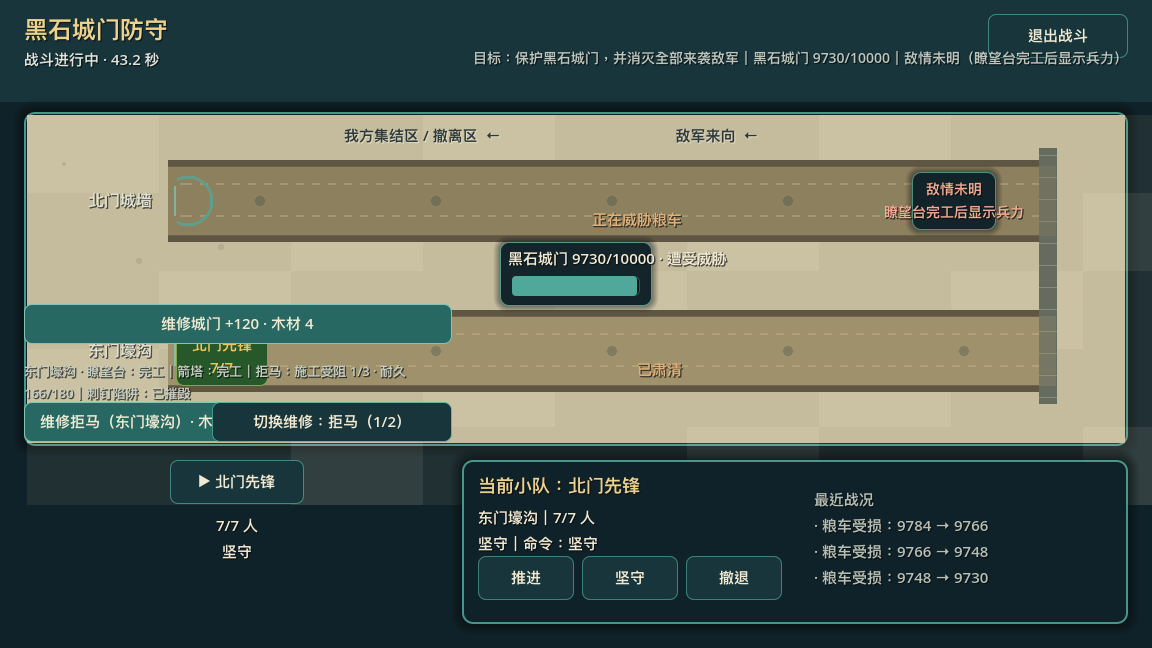
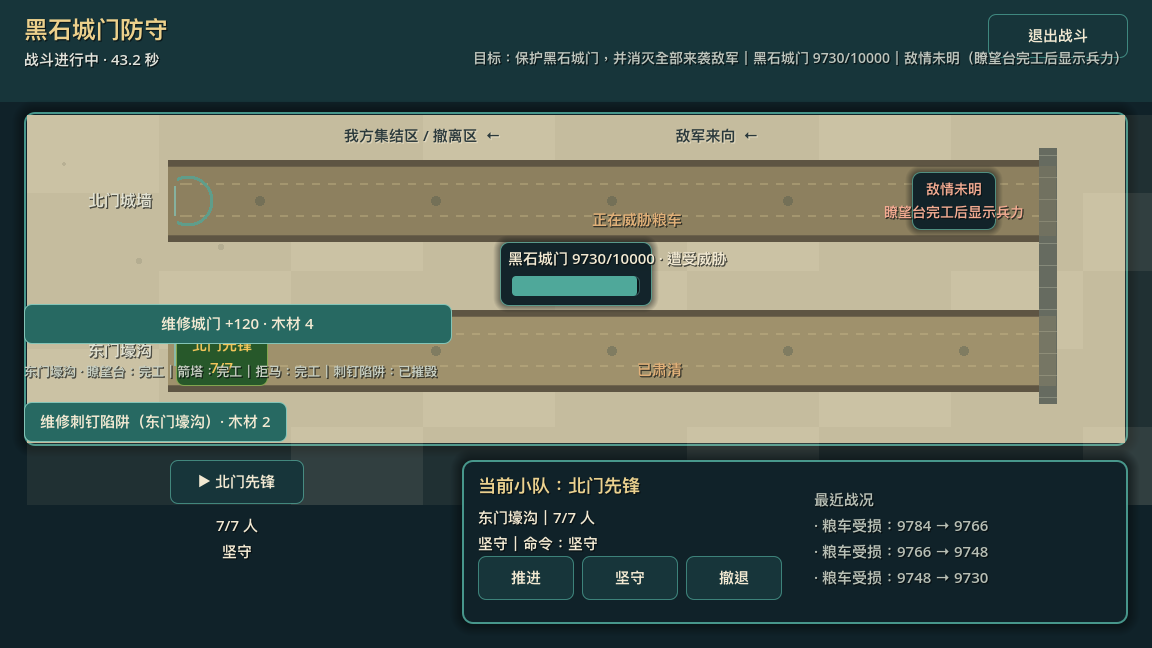
Interrupt wartime facility repairs

Changed region(s): [[0.0312, 0.5864, 0.4062, 0.679], [0.25, 0.5556, 0.375, 0.5864]]

diff --git a/CURRENT_STATE.md b/CURRENT_STATE.md
@@ -10,7 +10,9 @@
 
 黑石城门本体现在也具备正式、可恢复的战时维修入口：只有实际受损且尚未失守的 `PROTECT_AND_ELIMINATE` 目标可开工，C0 按钮显示本次恢复量和木材费用。确认后经既有 `ConstructionController` 资源事务一次扣 4 木材，`BattleSession` 才写入两战斗刻的 `REPAIRING` 状态；完成时最多恢复 120 点真实城门耐久。若检查点发布失败，同一边界回滚木材和会话状态。该维修不修改常态城防，不重复结算战果；独立 B→C 进程已验证维修中保存、冷恢复、剩余工期和一次耐久恢复。活动战斗会话升级到 schema 6：新格式严格校验保护目标、维修和施工受阻字段；schema 1–5 保守保留既有生命周期记录，不伪造历史施工。
 
-施工中的拒马、箭塔或瞭望台不再是不可破坏的占位物：敌军抵达同一路线时，会先中断该路线尚未完工的拒马、箭塔或瞭望台，记录可保存的 `INTERRUPTED` 状态，设施在此之前不提供减伤、火力或观察。每项正式确认的战时施工会冻结玩家当前选中的真实已承诺小队作为施工分队，Controller 在扣除建设资源前再次核验该小队属于本次冻结阵容；该分队撤退或失去行动能力时，工程同样进入中断态，不会凭空继续完工。维修同样绑定玩家当前选择的一支存活既有参战小队；无效选择会在资源事务前拒绝，仍不创建第二套工程师或兵员账本。该状态的维修与其他受损设施共享既有正式事务和两刻工期；完成后才恢复为 `ACTIVE`。同类工事现在按“类型＋实际路线”唯一：玩家可在前线、侧翼各部署一座瞭望台或箭塔，面板只对当前所选路线显示已选状态；两条路线的观察与箭塔伤害都在同一战斗刻分别投影和结算，恢复后保留相同工事身份。守城还新增路线专属的刺钉陷阱：正式面板选择并确认后施工两刻，敌军实际抵达该路线时只触发一次 80 点真实伤害，消耗自身记录；围城来源被权威拒绝使用，恢复也不会重播历史触发。定向战斗刻验证覆盖“抵达 → 中断未完工拒马 → 无提前防护 → 施工分队退出 → 恢复快照 → 正式维修 → 完工恢复”、双路线同类工事和一次性陷阱；独立 H→I 与 J→K 进程链分别从正式守城入口保存敌军施工受阻、施工分队损失，冷启动后确认仍无防护且不凭空续建。这是路线内工事生命周期完善，不等于已完成道路断开或完整战时防守战役。
+施工中的拒马、箭塔或瞭望台不再是不可破坏的占位物：敌军抵达同一路线时，会先中断该路线尚未完工的拒马、箭塔或瞭望台，记录可保存的 `INTERRUPTED` 状态，设施在此之前不提供减伤、火力或观察。每项正式确认的战时施工会冻结玩家当前选中的真实已承诺小队作为施工分队，Controller 在扣除建设资源前再次核验该小队属于本次冻结阵容；该分队撤退或失去行动能力时，工程同样进入中断态，不会凭空继续完工。维修同样绑定玩家当前选择的一支存活既有参战小队；无效选择会在资源事务前拒绝，仍不创建第二套工程师或兵员账本。维修也属于未完工的真实路线工作：敌军抵达时会先中断维修中的工事，不能在脚下无条件恢复防护；中断态、分队身份和耐久都由同一活动快照保存。该状态的维修与其他受损设施共享既有正式事务和两刻工期；完成后才恢复为 `ACTIVE`。同类工事现在按“类型＋实际路线”唯一：玩家可在前线、侧翼各部署一座瞭望台或箭塔，面板只对当前所选路线显示已选状态；两条路线的观察与箭塔伤害都在同一战斗刻分别投影和结算，恢复后保留相同工事身份。守城还新增路线专属的刺钉陷阱：正式面板选择并确认后施工两刻，敌军实际抵达该路线时只触发一次 80 点真实伤害，消耗自身记录；围城来源被权威拒绝使用，恢复也不会重播历史触发。定向战斗刻验证覆盖“抵达 → 中断未完工拒马 → 无提前防护 → 施工分队退出 → 恢复快照 → 正式维修 → 完工恢复”、双路线同类工事和一次性陷阱；独立 H→I 与 J→K 进程链分别从正式守城入口保存敌军施工受阻、施工分队损失，冷启动后确认仍无防护且不凭空续建。这是路线内工事生命周期完善，不等于已完成道路断开或完整战时防守战役。
+
+独立 L→M 进程链进一步覆盖“正式维修已开始 → 同路线敌军抵达中断 → 保存退出 → 新进程恢复”：恢复后保留同一施工分队、`INTERRUPTED` 阶段和无拒马防护投影，不会自动完成维修。该链与既有 H→I 的初始施工中断、J→K 的施工分队损失链分开，避免把同进程快照恢复误报为冷恢复证据。
 
 新增隔离图形 smoke 以正式黑石城入口进入守城 C0，使用可见路线、工事确认及城门维修按钮，记录计划、施工、受损、维修中与完成五个根视口截图。证据位于 `docs/milestones/field-tactics-r2/evidence/20260912-wartime-defense-gate-repair/`：维修前城门为 `9730/10000`，两战斗刻后为 `9850/10000`，截图与断言均确认不提前恢复。相同正式入口的后续截帧位于 `docs/milestones/field-tactics-r2/evidence/20260912-wartime-defense-construction-interruption/`，其中敌军在拒马完工前抵达时会显示“施工受阻 1/3 · 耐久 165/180”，且未生成拒马阻挡投影。两组证据都使用引擎 GUI 按钮信号和显式的测试战斗刻加速；前者还使用受控敌军到达以缩短空白行军。它们不冒充原生 macOS 鼠标或完整守城玩家验收；玩家验收保持 **OPEN**。
 

diff --git a/docs/milestones/field-tactics-r2/evidence/20260912-wartime-defense-spike-trap/VERIFICATION.md b/docs/milestones/field-tactics-r2/evidence/20260912-wartime-defense-spike-trap/VERIFICATION.md
@@ -18,9 +18,10 @@ PASS: visible defense planning
 PASS: formal confirmation and construction
 PASS: visible battle tick interrupts a barricade before completion
 PASS: visible battle tick triggers a completed spike trap once at route arrival
+PASS: formal facility repair names and saves the selected committed crew
 PASS: visible formal gate repair starts saved time
 PASS: true tick repair
-WARTIME_DEFENSE_GRAPHICAL_SMOKE PASS assertions=6
+WARTIME_DEFENSE_GRAPHICAL_SMOKE PASS assertions=7
 ```
 
 The runner enters C0 through the normal Blackstone city entry, uses the visible
@@ -36,6 +37,10 @@ directory and does not access a retained candidate save.
   before construction ticks begin.
 - `wartime-defense-03b-construction-interrupted-engine-gui.png`: an enemy
   arrival interrupts the unfinished barricade before it can project a block.
+- `wartime-defense-03d-facility-repair-crew-engine-gui.png`: the visible
+  facility-repair control has bound the selected `北门先锋` as its saved repair
+  crew; the recent-action panel names that same formation and the barricade is
+  still `REPAIRING`, not prematurely active.
 - `wartime-defense-03c-spike-trap-triggered-engine-gui.png`: a completed trap
   triggers at the actual selected-route objective, writes one enemy-HP damage
   event, and is consumed.
@@ -64,7 +69,8 @@ WARTIME_DEFENSE_R0_SMOKE PASS
 
 Godot --headless --path . --script tests/run_wartime_defense_persistence_smoke.gd \
   -- --txwzs-v5-save-dir="$isolated_save_dir"
-WARTIME_DEFENSE_PERSISTENCE_SMOKE PASS assertions=14
+Expected aggregate completion marker after adding the L/M pair:
+WARTIME_DEFENSE_PERSISTENCE_SMOKE PASS assertions=16
 ```
 
 The construction detachment is a real committed battle squad, saved by
@@ -97,4 +103,31 @@ The focused lifecycle check rejects foreign squad `999` without changing the
 damaged facility, then begins the repair with the explicit living squad and
 checks both the saved `construction_squad_id` and `REPAIR_STARTED.squad_id`.
 This is a headless authority/lifecycle check; the existing GUI captures show
-the repair control but do not yet isolate a distinct selected-repair-crew frame.
+the repair control and `wartime-defense-03d-facility-repair-crew-engine-gui.png`
+is the distinct Godot-GUI selected-crew frame. It remains GUI-event evidence,
+not native macOS mouse input.
+
+## Repair interruption regression (same candidate)
+
+The focused lifecycle smoke also moves a real invader to an active repair
+route on an ordinary attack tick. It verifies that the barricade becomes
+`INTERRUPTED`, contributes no route protection, and restores with the same
+construction crew identity. This closes the prior loophole where a facility in
+`REPAIRING` was not a valid invader target. The graphically captured repair
+state is intentionally taken before this targeted interruption fixture; no
+claim is made that the capture itself is a long real-time playthrough.
+
+The isolated L→M worker pair was also run directly against one temporary V5
+directory in this candidate:
+
+```text
+WARTIME_DEFENSE_DISK_WORKER_L PASS
+WARTIME_DEFENSE_DISK_WORKER_M PASS
+```
+
+L follows the formal C0 repair button, then an ordinary reached-route battle
+tick interrupts the saved repair. M is a fresh Godot process that reopens that
+same directory and asserts the persisted `INTERRUPTED` phase, crew identity,
+and absent barricade projection. This is a true isolated-process save chain.
+The aggregate runner remains the full 16-assertion gate; its current candidate
+execution is not substituted for this directly captured L/M evidence.

diff --git a/docs/design/WARTIME_INNER_CITY_R0.md b/docs/design/WARTIME_INNER_CITY_R0.md
@@ -110,10 +110,11 @@ only after its checkpoint succeeds, adds a short route/damage notice, and
 never restores that transient notification as a new volley after reload.
 
 An unfinished route work is not invulnerable. Once invaders reach that route's
-objective, they target a `CONSTRUCTING` barricade, then tower, then watch
-platform before applying ordinary gate damage. The hit changes the same saved
-facility record to `DAMAGED` or `DESTROYED` and emits a construction-interrupted
-event; it grants none of the unfinished work's normal effects. The established
+objective, they target a `CONSTRUCTING` **or `REPAIRING`** barricade, then tower,
+then watch platform before applying ordinary gate damage. A hit during either
+kind of in-progress work changes the same saved facility record to
+`INTERRUPTED` (or `DESTROYED` at zero durability), emits the same interruption
+event, and grants none of the unfinished work's normal effects. The established
 repair transaction is the only way to return that record to `ACTIVE`, so an
 interrupted work cannot silently resume construction or become effective during
 the attack that stopped it.

diff --git a/CHANGELOG.md b/CHANGELOG.md
@@ -1,5 +1,18 @@
 # Changelog
 
+## 2026-09-12 - Interruptible wartime repairs
+
+- Put `REPAIRING` temporary facilities into the same reached-route target
+  order as construction. An invader can now interrupt an in-progress repair
+  before it restores a barricade, tower, or watch platform; surviving work
+  returns to the persisted `INTERRUPTED` phase, while zero durability is still
+  `DESTROYED`.
+- Kept the lifecycle in `BattleSession`'s existing damage writer and snapshot,
+  so no second repair or route-protection state is introduced. C0 now names
+  the actual committed repair crew in both immediate and tick feedback.
+- Added headless interruption/restore coverage plus a new graphical C0
+  selected-crew repair capture. The capture is Godot GUI-event evidence only.
+
 ## 2026-09-12 - Formal macro-siege victory coverage
 
 - Extended the macro-siege wartime handoff smoke with a separate, fully formal
